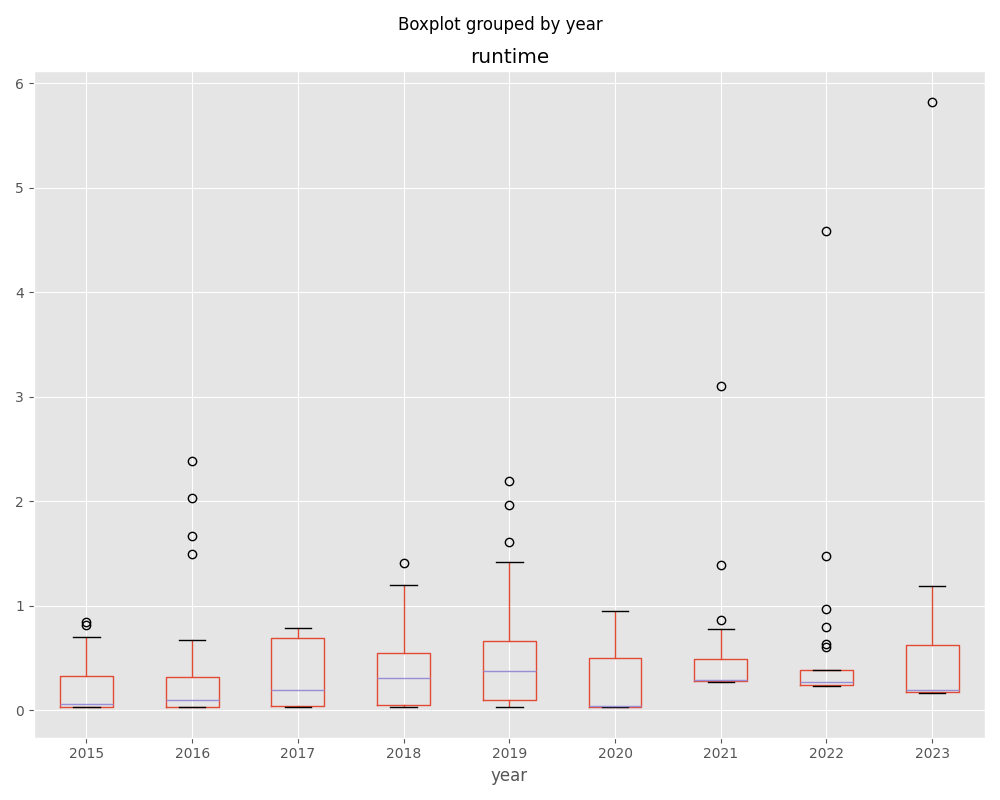
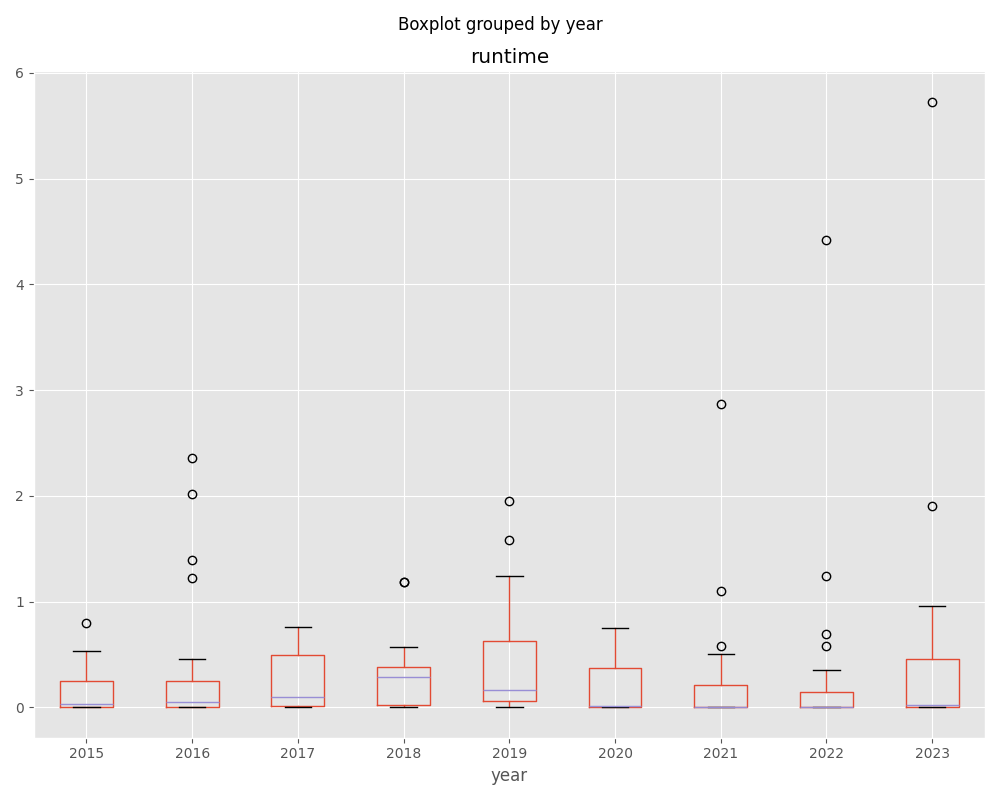
Update runtimes and graphs based on new (more accurate hopefully) way of measuring

diff --git a/README.md b/README.md
@@ -231,19 +231,16 @@ a_graph \
 | ---- | --- | ------- | -------- | ------------------------------------------------------- |
 | 2023 | 23  | 5.531   | Ocaml    | Optimized graph, no early exit, longest path problem    |
 | 2022 | 16  | 4.359   | Rust     | Path finding with multiple agents is fairly optimized   |
-| 2021 | 23  | 3.247   | Go       | Looks like a complex path finding problem               |
-| 2019 | 18  | 2.235   | Java     | Mostly the Java runtime for such a small execution      |
-| 2016 | 25  | 2.018   | Python   | Kinda like int-code, can probably make it faster        |
+| 2021 | 23  | 2.871   | Go       | Looks like a complex path finding problem               |
+| 2016 | 25  | 2.298   | Python   | Kinda like int-code, can probably make it faster        |
 | 2016 | 11  | 2.009   | Python   | That chips and generator problem, not fun               |
 | 2019 | 17  | 1.993   | Python   | Annoying int-code that hasn't been moved to Rust        |
-| 2016 | 14  | 1.664   | Go       | Already batched implementation of md5                   |
-| 2019 | 23  | 1.621   | Python   | Kinda annoying int-code that hasn't been moved to Rust  |
-| 2021 | 12  | 1.490   | Go       | Path finding problem, might be some room to improve     |
-| 2022 | 15  | 1.483   | Rust     | Dealing with large space, already in Rust               |
-| 2016 | 5   | 1.471   | Go       | Final md5 hash that isn't running under 1 second        |
-| 2018 | 15  | 1.358   | Rust     | Complex game state with path finding between characters |
-| 2019 | 25  | 1.311   | Rust     | Mostly spends time permuting through the items          |
-| 2020 | 15  | 1.249   | Rust     | Even in Rust iterating to 30,000,000 takes a bit        |
-| 2018 | 24  | 1.153   | Python   | Complex game, fairly optimized in Python                |
-| 2019 | 20  | 1.132   | Java     | Mostly the Java runtime for such a small execution      |
-| 2023 | 21  | 1.107   | Rust     | A growing set of points, gets fairly large              |
+| 2019 | 23  | 1.583   | Python   | Kinda annoying int-code that hasn't been moved to Rust  |
+| 2016 | 14  | 1.391   | Go       | Already batched implementation of md5                   |
+| 2019 | 18  | 1.245   | Java     | Can likely minimize state to make lookups faster        |
+| 2016 | 5   | 1.220   | Go       | Final md5 hash that isn't running under 1 second        |
+| 2022 | 15  | 1.196   | Rust     | Dealing with large space                                |
+| 2019 | 25  | 1.191   | Rust     | Mostly spends time permuting through the items          |
+| 2018 | 15  | 1.187   | Rust     | Complex game state with path finding between characters |
+| 2018 | 24  | 1.186   | Python   | Complex game, fairly optimized in Python                |
+| 2021 | 12  | 1.102   | Go       | Path finding problem, might be some room to improve     |
